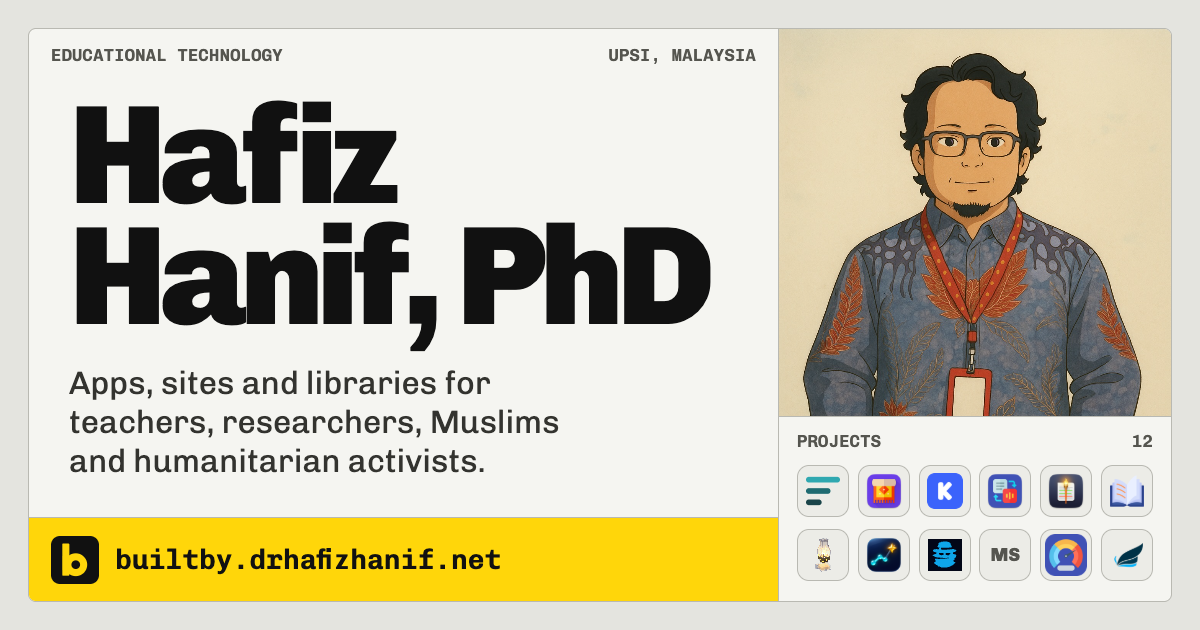
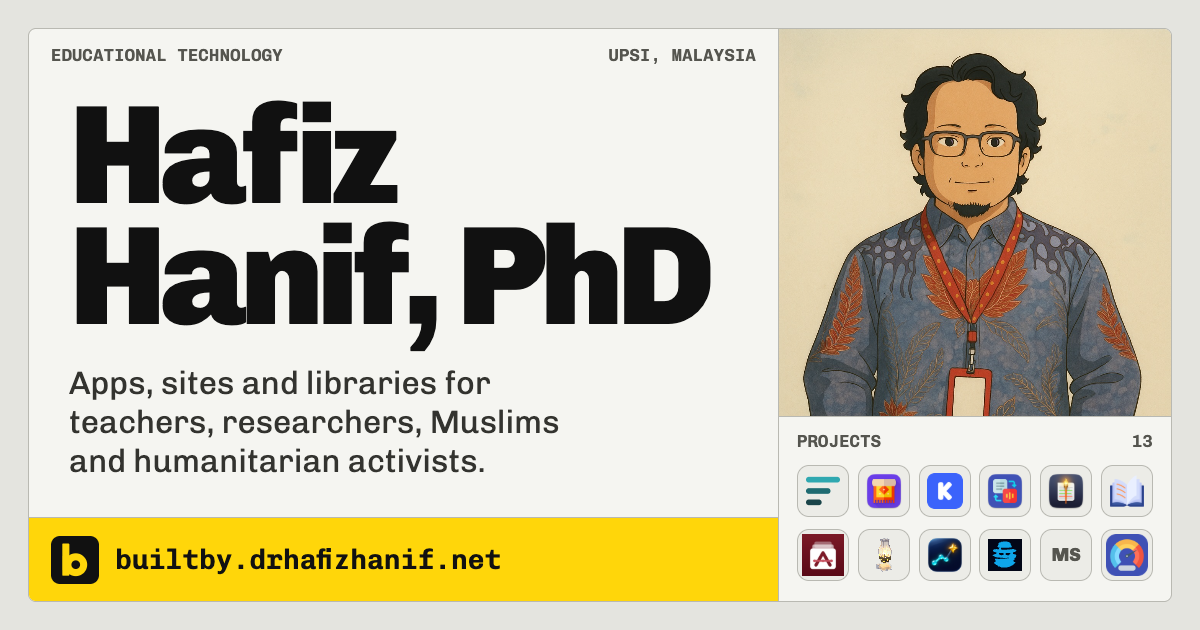
Astakademia: project page, privacy policy, terms and support
A closed-beta entry for Astakademia (Mac and iPad) with the three pages
Google and Apple ask for before publishing sign-in and the app:
/astakademia/privacy, /astakademia/terms and /astakademia/support. Facts
come from the app's own docs: what is stored (work, account, hashed device
keys), where (each device and the Cloudflare server, per account), sign-in
with Apple or Google (openid and email only), the camera for pairing, and
in-app account deletion. Link preview image added.

Changed region(s): [[0.6475, 0.8444, 0.9558, 0.9349]]

diff --git a/src/data/projects.ts b/src/data/projects.ts
@@ -650,6 +650,233 @@ export const projects: Project[] = [
     screens: [{ src: '/screens/hackedu.jpg', caption: 'The Hack(edu).tech home page.' }],
   },
   {
+    slug: 'astakademia',
+    schema: { category: 'ProductivityApplication', publisher: 'HackEduTech Labs' },
+    search: {
+      title: 'Astakademia: a lecturer’s workload on Mac and iPad | builtby.',
+      description:
+        'One place for a Malaysian lecturer’s workload on Mac and iPad: semesters, courses, the weekly timetable, ISO teaching files and tasks, in Bahasa Malaysia.',
+    },
+    name: 'Astakademia',
+    kind: 'app',
+    audience: 'researchers',
+    status: 'closed-beta',
+    icon: { src: '/icons/astakademia.png' },
+    platforms: ['Mac', 'iPad'],
+    tagline: 'One place for a lecturer’s whole workload, opened every morning on the Mac and carried on the iPad.',
+    notice: 'Astakademia is in closed beta testing. New accounts are not open yet.',
+    about: [
+      'Astakademia gathers the work of a Malaysian university lecturer in one app, organised by the pillars lecturers are assessed on: Pengajaran (teaching), Penyeliaan (supervision), Penyelidikan (research), Penerbitan (publication), Perundingan (consultancy), Pengkomersialan (commercialisation) and Perkhidmatan (service).',
+      'Teaching comes first. The other pillars are on the way, and tasks from every pillar already live in one list.',
+    ],
+    features: [
+      {
+        title: 'Utama, every morning',
+        detail: 'Today’s date, open and overdue tasks, this week’s classes on a timeline, and what needs action.',
+      },
+      {
+        title: 'Semesters and courses',
+        detail: 'Courses, groups and their weekly class slots for each semester, with clashes pointed out as you add them.',
+      },
+      {
+        title: 'Jadual',
+        detail: 'The week’s timetable for every group you teach, in one grid.',
+      },
+      {
+        title: 'Fail ISO',
+        detail: 'The teaching file checklist for each semester, course and group, with what is done and what is still open.',
+      },
+      {
+        title: 'Works offline, syncs at once',
+        detail: 'Each device keeps its own copy and works without a connection. Changes reach your other devices within seconds when they are online.',
+      },
+      {
+        title: 'Your devices, your account',
+        detail: 'Sign in on your Mac with Apple or Google. The Mac then adds your iPad with a one-time code, and can remove any device.',
+      },
+    ],
+    facts: [
+      { label: 'Runs on', value: 'macOS 26 or later, iPadOS 26 or later' },
+      { label: 'Language', value: 'Bahasa Malaysia' },
+      { label: 'Your data', value: 'On your devices, and synced through Astakademia’s server for your account only' },
+      { label: 'By', value: 'HackEduTech Labs' },
+    ],
+    actions: [],
+    docs: [
+      {
+        slug: 'privacy',
+        title: 'Privacy Policy',
+        description: 'What Astakademia stores, where, who can see it, and how to delete your account and everything in it.',
+        dated: 'Effective 20 November 2026',
+        intro: 'Astakademia keeps a lecturer’s workload: semesters, courses, timetables, teaching files and tasks. It is provided by Mohd Hafiz bin Md Hanif, trading as HackEduTech Labs, in Malaysia. This policy explains what the app stores and what happens to it.',
+        sections: [
+          {
+            heading: 'What Astakademia stores',
+            blocks: [
+              {
+                kind: 'bullets',
+                items: [
+                  'The work you enter: semesters, courses, groups, class slots, weekly plans, links to course materials, teaching records, the status of your ISO teaching file items, and tasks.',
+                  'Your account: an account number, and the Apple or Google sign-in you used. From Apple or Google, Astakademia keeps only the account identifier they give it and your email address when they say it is verified. It never sees your Apple or Google password.',
+                  'Your devices: the name of each device you add, and a key for each one. The server keeps only a scrambled form (a hash) of each key, so the key itself cannot be read back from the server.',
+                ],
+              },
+            ],
+          },
+          {
+            heading: 'Where it is kept',
+            blocks: [
+              'Each of your devices keeps a copy of your work, so the app works without a connection. To keep your devices in step, your work is also stored on Astakademia’s server, which runs on Cloudflare. Your work travels between your devices and the server over an encrypted connection.',
+              'Your work belongs to your account. Other people using Astakademia cannot see or change it, and the server checks this on every request.',
+            ],
+          },
+          {
+            heading: 'What Astakademia does not do',
+            blocks: [
+              {
+                kind: 'bullets',
+                items: [
+                  'No advertising, no analytics and no tracking, and no third-party software in the app that does these things.',
+                  'Your work is not sold, shared or used for anything other than showing it back to you on your devices.',
+                ],
+              },
+            ],
+          },
+          {
+            heading: 'Signing in with Apple or Google',
+            blocks: [
+              'When you sign in, Apple or Google shows the sign-in screen under its own privacy policy: [Apple’s](https://www.apple.com/legal/privacy/) or [Google’s](https://policies.google.com/privacy). Astakademia asks Google only for your sign-in and email address, nothing from your Gmail, Drive or calendar.',
+            ],
+          },
+          {
+            heading: 'The camera',
+            blocks: [
+              'On the iPad, the camera is used only when you choose to scan the code your Mac shows to add the iPad. The camera picture is read on the iPad and is not stored or sent anywhere.',
+            ],
+          },
+          {
+            heading: 'Deleting your account',
+            blocks: [
+              'On a Mac signed in to your account, you can delete the account from within Astakademia. This removes your work, your devices and your sign-ins from the server at once. To remove the copy on a device, delete the app from that device.',
+            ],
+          },
+          {
+            heading: 'Student information',
+            blocks: [
+              'This version does not store student records such as names, attendance or marks. If a later version does, this policy will describe it before that version is released.',
+            ],
+          },
+          {
+            heading: 'Changes to this policy',
+            blocks: ['If this policy changes, the new version will be posted on this page with a new effective date.'],
+          },
+          {
+            heading: 'Contact',
+            blocks: ['Questions about privacy: [hello@hackedu.tech](mailto:hello@hackedu.tech).'],
+          },
+        ],
+      },
+      {
+        slug: 'terms',
+        title: 'Terms of Use',
+        description: 'The terms for using Astakademia: the beta, your account and devices, your content, and who to contact.',
+        dated: 'Effective 20 November 2026',
+        intro: 'Astakademia is provided by Mohd Hafiz bin Md Hanif, trading as HackEduTech Labs, in Malaysia (“we”). By using Astakademia you agree to these terms.',
+        sections: [
+          {
+            heading: 'A beta',
+            blocks: [
+              'Astakademia is in beta testing. Features may change or be removed, and the service may sometimes be unavailable. Keep your own copies of anything you cannot afford to lose.',
+            ],
+          },
+          {
+            heading: 'Apple’s licence',
+            blocks: [
+              'When Astakademia is installed from Apple, it is licensed to you under Apple’s [Licensed Application End User License Agreement](https://www.apple.com/legal/internet-services/itunes/dev/stdeula/). These terms add to it. Where the two differ, Apple’s agreement applies.',
+            ],
+          },
+          {
+            heading: 'Your account and devices',
+            blocks: [
+              'Your account is the Apple or Google sign-in you chose. Keep your devices locked. If a device is lost, remove it from your Mac in Astakademia, and it can no longer reach your account.',
+            ],
+          },
+          {
+            heading: 'Your content',
+            blocks: [
+              'What you enter remains yours. You are responsible for having the right to keep the information you enter, including anything about students or colleagues, under your institution’s rules and the law.',
+            ],
+          },
+          {
+            heading: 'Using Astakademia fairly',
+            blocks: [
+              'Use Astakademia lawfully. Do not try to reach other people’s accounts, overload the service, or get around its limits.',
+            ],
+          },
+          {
+            heading: 'No warranty, and limits on liability',
+            blocks: [
+              'Astakademia is provided as is. To the extent the law allows, we are not liable for lost data or for decisions made on the basis of what the app shows.',
+              'Nothing in these terms takes away rights you have under consumer law that cannot be excluded.',
+            ],
+          },
+          {
+            heading: 'Changes and the law that applies',
+            blocks: [
+              'If these terms change, the new version will be posted on this page with a new effective date. These terms are governed by the laws of Malaysia, without limiting the consumer protections of the country where you live.',
+            ],
+          },
+          {
+            heading: 'Contact',
+            blocks: ['Write to [hello@hackedu.tech](mailto:hello@hackedu.tech). See also the [privacy policy](/astakademia/privacy).'],
+          },
+        ],
+      },
+      {
+        slug: 'support',
+        title: 'Support',
+        description: 'Help with Astakademia on Mac and iPad: signing in, adding and removing devices, working offline, deleting your account, and contact.',
+        intro: 'Help with Astakademia, the lecturer’s workload app for Mac and iPad.',
+        sections: [
+          {
+            heading: 'Contact',
+            blocks: [
+              'Write to [hello@hackedu.tech](mailto:hello@hackedu.tech). Please say whether you use a Mac or an iPad, and which version of Astakademia.',
+            ],
+          },
+          {
+            heading: 'Can I sign up?',
+            blocks: ['Not yet. Astakademia is in closed beta testing, and new accounts are not open.'],
+          },
+          {
+            heading: 'How do I add my iPad?',
+            blocks: [
+              'On your Mac, open Sambungan and choose to add a device. The Mac shows a QR code and a short code for five minutes. On the iPad, open Sambungan and scan the QR code, or type the short code. Each code works once.',
+            ],
+          },
+          {
+            heading: 'I lost a device.',
+            blocks: [
+              'On your Mac, open Sambungan, find the device in the list and remove it. It can no longer reach your account, and its live connection ends at once.',
+            ],
+          },
+          {
+            heading: 'Does it work without internet?',
+            blocks: [
+              'Yes. Each device keeps its own copy and saves your changes on the device. They reach your other devices the next time it is online.',
+            ],
+          },
+          {
+            heading: 'How do I delete my account?',
+            blocks: [
+              'On a Mac signed in to your account, open Sambungan and delete the account. Your work, devices and sign-ins are removed from the server. See the [privacy policy](/astakademia/privacy) and the [terms of use](/astakademia/terms).',
+            ],
+          },
+        ],
+      },
+    ],
+  },
+  {
     slug: 'suluh',
     schema: { category: 'GameApplication' },
     name: 'SULUH',
